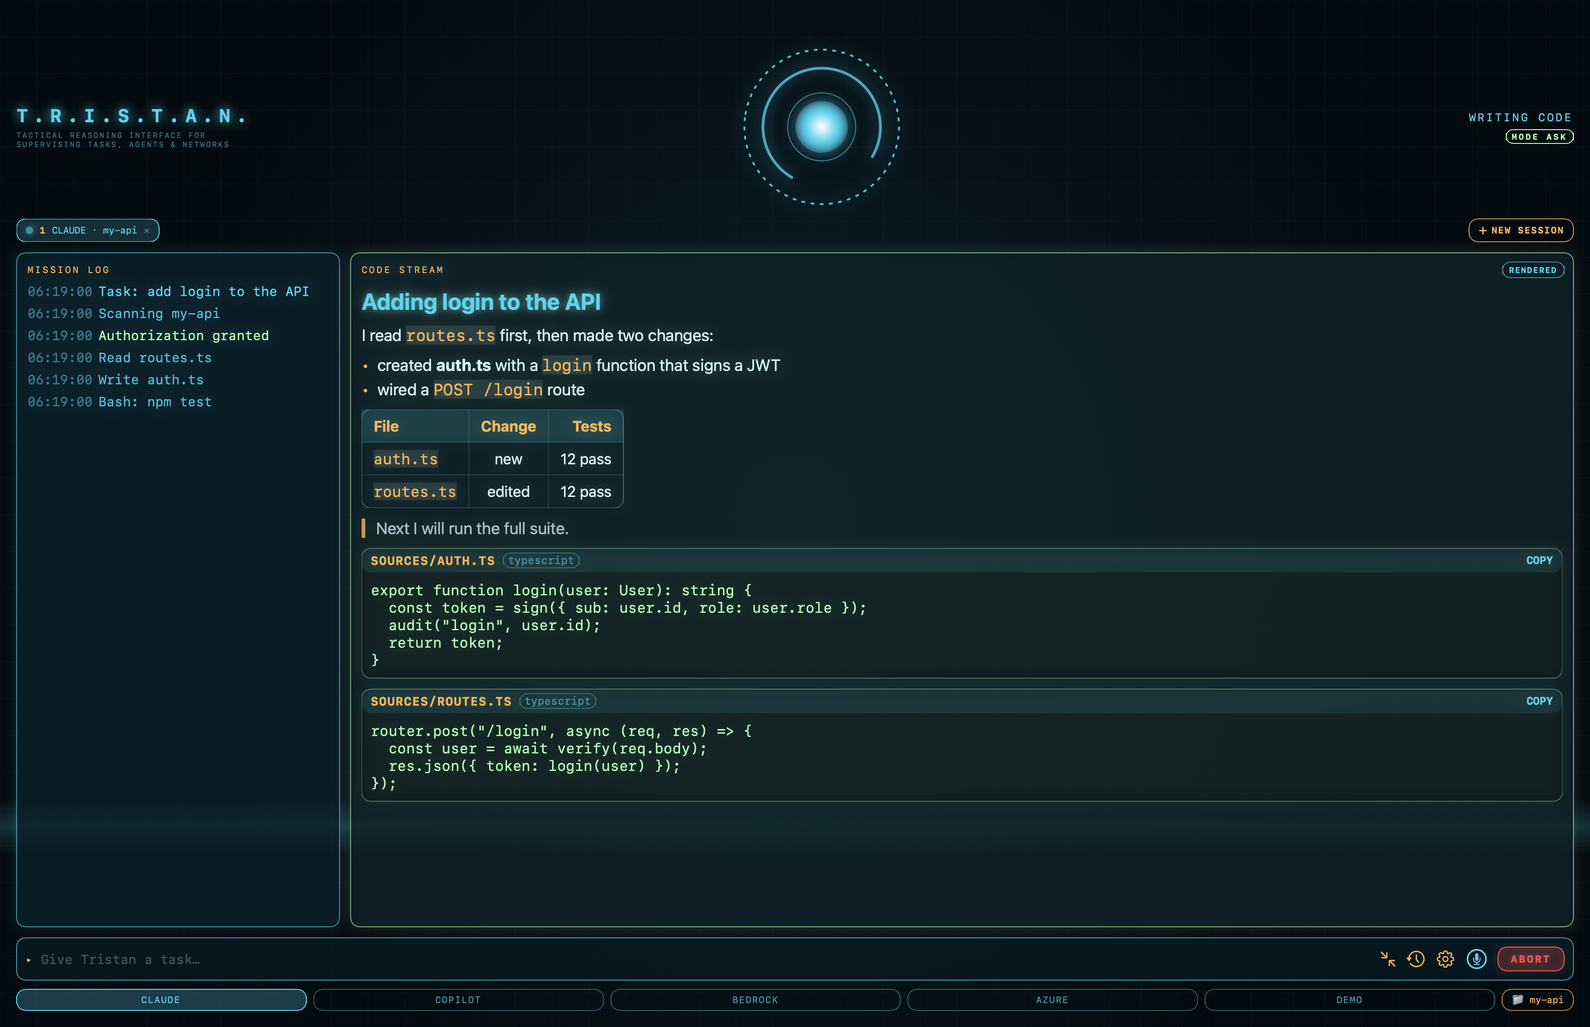
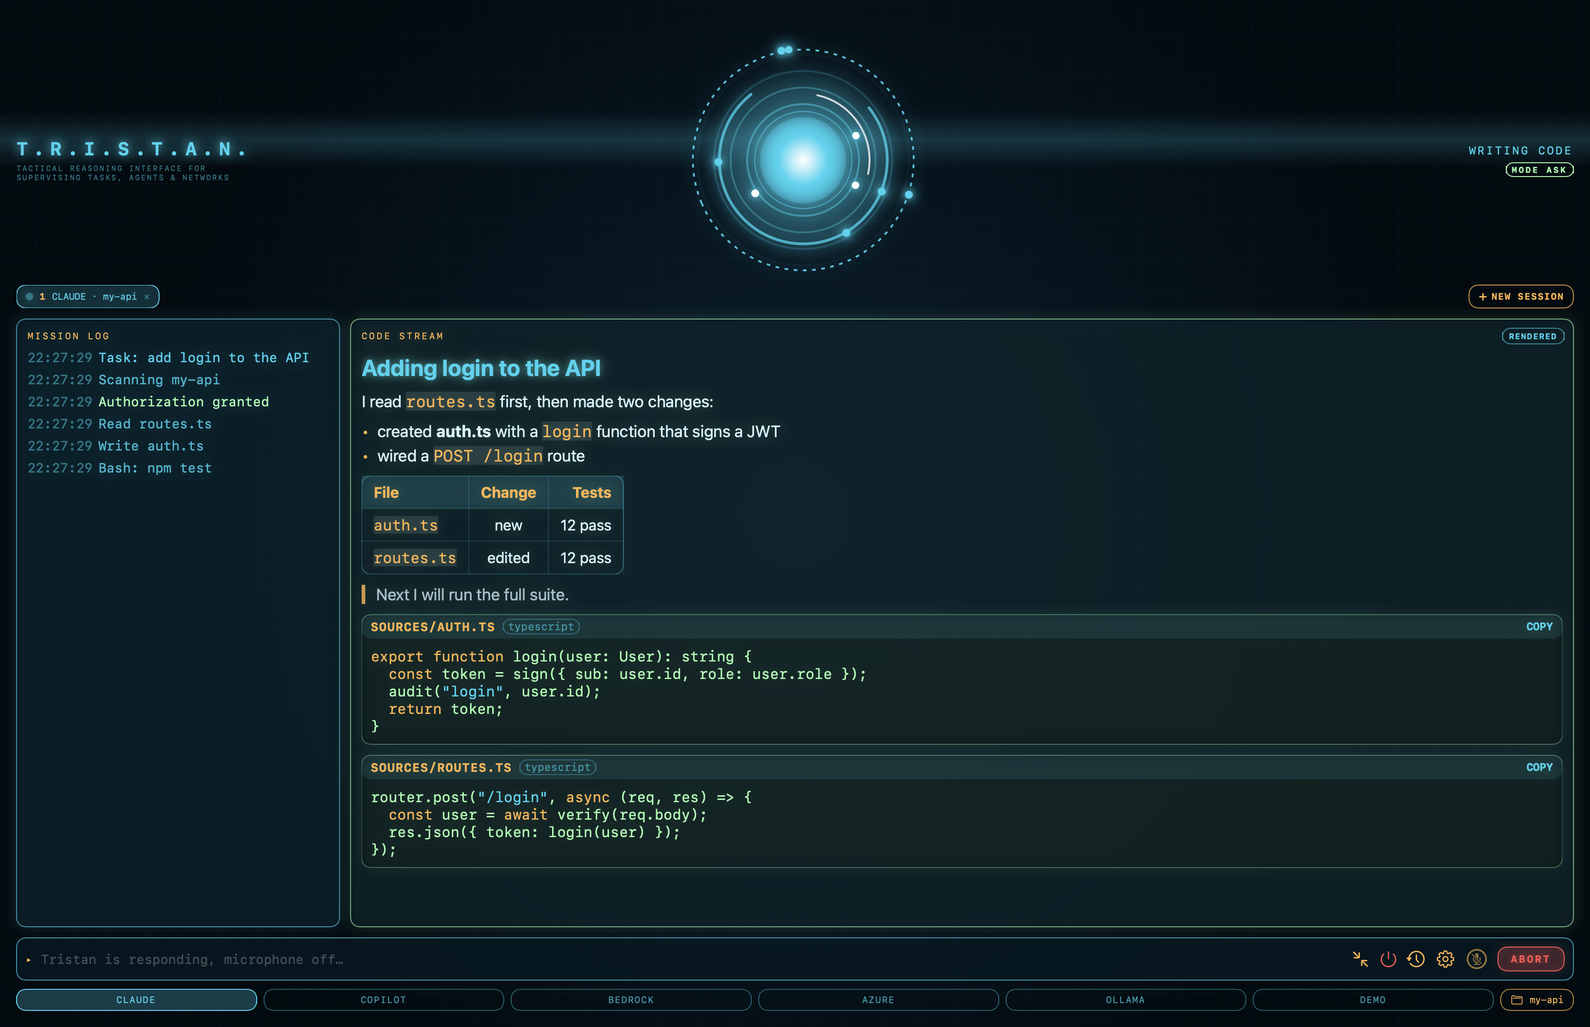
Code cards: syntax highlighting for Swift, TypeScript and JavaScript, Python, shell, JSON and YAML
A small dependency-free scanner shared by the Mac and iOS apps. Unfinished strings and
comments are coloured to the end, so streaming text never flickers or loses characters.

Closes #14

diff --git a/Sources/Tristan/Shared/SyntaxHighlighter.swift b/Sources/Tristan/Shared/SyntaxHighlighter.swift
@@ -1,0 +1,199 @@
+import Foundation
+
+// A small, dependency-free highlighter for the code cards. It is a hand-written scanner, not a parser: it only has to
+// colour what an agent writes, and it must cope with text that is still streaming in (an unfinished string or comment
+// is simply coloured to the end). The tokens always rebuild the original text exactly.
+
+enum SyntaxKind: Equatable {
+    case plain, keyword, string, comment, number, key
+}
+
+struct SyntaxToken: Equatable {
+    var kind: SyntaxKind
+    var text: String
+}
+
+enum SyntaxHighlighter {
+    private struct Rules {
+        var keywords: Set<String> = []
+        var lineComments: [String] = []
+        var blockComments = false
+        var quotes: [Character] = []
+        var multilineQuotes: [Character] = []   // a string that may run over several lines (template literals)
+        var tripleQuotes = false
+        var jsonKeys = false
+        var yaml = false
+    }
+
+    private static let swift = Rules(
+        keywords: ["import", "let", "var", "func", "class", "struct", "enum", "protocol", "extension", "if", "else", "guard", "switch", "case",
+                   "default", "for", "while", "repeat", "return", "break", "continue", "in", "is", "as", "try", "catch", "throw", "throws",
+                   "async", "await", "actor", "init", "self", "super", "nil", "true", "false", "static", "private", "public", "internal",
+                   "fileprivate", "open", "override", "final", "where", "some", "any", "typealias", "defer", "do"],
+        lineComments: ["//"], blockComments: true, quotes: ["\""], tripleQuotes: true)
+
+    private static let script = Rules(
+        keywords: ["const", "let", "var", "function", "return", "if", "else", "for", "while", "class", "extends", "new", "import", "export",
+                   "from", "default", "async", "await", "try", "catch", "throw", "typeof", "interface", "type", "enum", "implements",
+                   "public", "private", "readonly", "static", "switch", "case", "break", "continue", "this", "null", "undefined", "true",
+                   "false", "of", "in", "as"],
+        lineComments: ["//"], blockComments: true, quotes: ["\"", "'", "`"], multilineQuotes: ["`"])
+
+    private static let python = Rules(
+        keywords: ["def", "class", "return", "if", "elif", "else", "for", "while", "in", "not", "and", "or", "is", "import", "from", "as",
+                   "with", "try", "except", "finally", "raise", "pass", "break", "continue", "lambda", "yield", "None", "True", "False",
+                   "async", "await", "global", "nonlocal", "del", "assert"],
+        lineComments: ["#"], quotes: ["\"", "'"], tripleQuotes: true)
+
+    private static let shell = Rules(
+        keywords: ["if", "then", "else", "elif", "fi", "for", "while", "until", "do", "done", "case", "esac", "in", "function", "return",
+                   "exit", "export", "local"],
+        lineComments: ["#"], quotes: ["\"", "'"])
+
+    private static let json = Rules(keywords: ["true", "false", "null"], quotes: ["\""], jsonKeys: true)
+
+    private static let yaml = Rules(keywords: ["true", "false", "null", "yes", "no"], lineComments: ["#"], quotes: ["\"", "'"], yaml: true)
+
+    private static func rules(for language: String) -> Rules? {
+        switch language.lowercased() {
+        case "swift": return swift
+        case "typescript", "ts", "tsx", "javascript", "js", "jsx", "mjs": return script
+        case "python", "py": return python
+        case "shell", "sh", "bash", "zsh": return shell
+        case "json", "jsonc": return json
+        case "yaml", "yml": return yaml
+        default: return nil
+        }
+    }
+
+    static func tokenize(_ code: String, language: String) -> [SyntaxToken] {
+        guard !code.isEmpty else { return [] }
+        guard let rules = rules(for: language) else { return [SyntaxToken(kind: .plain, text: code)] }
+        var tokens: [SyntaxToken] = []
+        if rules.yaml {
+            for line in code.split(separator: "\n", omittingEmptySubsequences: false).enumerated() {
+                if line.offset > 0 { tokens.append(SyntaxToken(kind: .plain, text: "\n")) }
+                let text = Array(line.element)
+                let keyEnd = yamlKeyRange(text)
+                if let keyEnd {
+                    tokens.append(SyntaxToken(kind: .plain, text: String(text[..<keyEnd.lowerBound])))
+                    tokens.append(SyntaxToken(kind: .key, text: String(text[keyEnd])))
+                    scan(Array(text[keyEnd.upperBound...]), rules, into: &tokens)
+                } else {
+                    scan(text, rules, into: &tokens)
+                }
+            }
+        } else {
+            scan(Array(code), rules, into: &tokens)
+        }
+        return merged(tokens)
+    }
+
+    /// The range of a YAML key at the start of a line (after indentation and a list dash), if the line has one.
+    private static func yamlKeyRange(_ line: [Character]) -> Range<Int>? {
+        var start = 0
+        while start < line.count, line[start] == " " || line[start] == "\t" { start += 1 }
+        while start + 1 < line.count, line[start] == "-", line[start + 1] == " " {
+            start += 2
+            while start < line.count, line[start] == " " { start += 1 }
+        }
+        guard start < line.count, line[start] != "#" else { return nil }
+        var i = start
+        if line[i] == "\"" || line[i] == "'" {
+            let quote = line[i]
+            i += 1
+            while i < line.count, line[i] != quote { i += line[i] == "\\" ? 2 : 1 }
+            guard i < line.count else { return nil }
+            i += 1
+            guard i < line.count, line[i] == ":" else { return nil }
+            return start..<i
+        }
+        while i < line.count {
+            if line[i] == ":" , i + 1 == line.count || line[i + 1] == " " { return i > start ? start..<i : nil }
+            if line[i] == "#", i > start, line[i - 1] == " " { return nil }
+            i += 1
+        }
+        return nil
+    }
+
+    private static func scan(_ chars: [Character], _ rules: Rules, into tokens: inout [SyntaxToken]) {
+        var i = 0
+        func hasPrefix(_ prefix: String, at index: Int) -> Bool {
+            let p = Array(prefix)
+            guard index + p.count <= chars.count else { return false }
+            return Array(chars[index..<index + p.count]) == p
+        }
+        func isWordChar(_ c: Character) -> Bool { c.isLetter || c.isNumber || c == "_" }
+        func add(_ kind: SyntaxKind, _ from: Int, _ to: Int) { tokens.append(SyntaxToken(kind: kind, text: String(chars[from..<to]))) }
+
+        while i < chars.count {
+            let c = chars[i]
+            // Comments: a hash only counts at the start of a line or after a space, so `a#b` stays plain.
+            if rules.blockComments, hasPrefix("/*", at: i) {
+                var j = i + 2
+                while j < chars.count, !hasPrefix("*/", at: j) { j += 1 }
+                j = min(chars.count, j + 2)
+                add(.comment, i, j); i = j; continue
+            }
+            if let marker = rules.lineComments.first(where: { hasPrefix($0, at: i) }),
+               marker != "#" || i == 0 || chars[i - 1] == " " || chars[i - 1] == "\t" || chars[i - 1] == "\n" {
+                var j = i
+                while j < chars.count, chars[j] != "\n" { j += 1 }
+                add(.comment, i, j); i = j; continue
+            }
+            if rules.tripleQuotes, c == "\"" || c == "'", hasPrefix(String(repeating: c, count: 3), at: i) {
+                let closing = String(repeating: c, count: 3)
+                var j = i + 3
+                while j < chars.count, !hasPrefix(closing, at: j) { j += chars[j] == "\\" ? 2 : 1 }
+                j = min(chars.count, j + 3)
+                add(.string, i, j); i = j; continue
+            }
+            if rules.quotes.contains(c) {
+                let multiline = rules.multilineQuotes.contains(c)
+                var j = i + 1
+                var closed = false
+                while j < chars.count {
+                    if chars[j] == "\\" { j = min(chars.count, j + 2); continue }
+                    if chars[j] == c { j += 1; closed = true; break }
+                    if chars[j] == "\n", !multiline { break }
+                    j += 1
+                }
+                var kind = SyntaxKind.string
+                if rules.jsonKeys, closed {
+                    var k = j
+                    while k < chars.count, chars[k] == " " || chars[k] == "\t" { k += 1 }
+                    if k < chars.count, chars[k] == ":" { kind = .key }
+                }
+                add(kind, i, j); i = j; continue
+            }
+            if c.isNumber, i == 0 || !isWordChar(chars[i - 1]) {
+                var j = i + 1
+                if c == "0", j < chars.count, chars[j] == "x" || chars[j] == "X" {
+                    j += 1
+                    while j < chars.count, chars[j].isHexDigit { j += 1 }
+                } else {
+                    while j < chars.count, chars[j].isNumber || chars[j] == "_" || (chars[j] == "." && j + 1 < chars.count && chars[j + 1].isNumber) { j += 1 }
+                }
+                add(.number, i, j); i = j; continue
+            }
+            if c.isLetter || c == "_" {
+                var j = i + 1
+                while j < chars.count, isWordChar(chars[j]) { j += 1 }
+                add(rules.keywords.contains(String(chars[i..<j])) ? .keyword : .plain, i, j); i = j; continue
+            }
+            add(.plain, i, i + 1); i += 1
+        }
+    }
+
+    private static func merged(_ tokens: [SyntaxToken]) -> [SyntaxToken] {
+        var result: [SyntaxToken] = []
+        for token in tokens where !token.text.isEmpty {
+            if token.kind == .plain, let last = result.last, last.kind == .plain {
+                result[result.count - 1].text += token.text
+            } else {
+                result.append(token)
+            }
+        }
+        return result
+    }
+}

diff --git a/Tests/TristanTests/SyntaxHighlighterTests.swift b/Tests/TristanTests/SyntaxHighlighterTests.swift
@@ -1,0 +1,117 @@
+import XCTest
+@testable import Tristan
+
+final class SyntaxHighlighterTests: XCTestCase {
+    private func tokens(_ code: String, _ language: String) -> [SyntaxToken] { SyntaxHighlighter.tokenize(code, language: language) }
+    private func kinds(_ code: String, _ language: String, of kind: SyntaxKind) -> [String] {
+        tokens(code, language).filter { $0.kind == kind }.map(\.text)
+    }
+
+    func testTokensAlwaysRebuildTheOriginalText() {
+        let samples = [
+            "let x = \"hi\" // note\nfunc f() -> Int { 42 }",
+            "{\"a\": [1, 2.5, true, null], \"b\": \"c\"}",
+            "name: demo\n# comment\nitems:\n  - one: 1",
+            "echo \"$HOME\" # hi\nif [ -f a ]; then ls; fi",
+            "def f(x):\n    return x  # done",
+            "const s = `a ${b}`; /* c */ let n = 0x1F",
+            "",
+            "\n\n  \t",
+            "emoji 😀 \"naïve\" é",
+        ]
+        for language in ["swift", "typescript", "javascript", "python", "shell", "json", "yaml", "text", ""] {
+            for code in samples {
+                XCTAssertEqual(tokens(code, language).map(\.text).joined(), code, "\(language): \(code)")
+            }
+        }
+    }
+
+    func testSwiftKeywordsStringsCommentsAndNumbers() {
+        let code = "let total = 42 + 3.5 // sum\nvar name = \"Ada\"\nfunc go() {}"
+        XCTAssertEqual(kinds(code, "swift", of: .keyword), ["let", "var", "func"])
+        XCTAssertEqual(kinds(code, "swift", of: .number), ["42", "3.5"])
+        XCTAssertEqual(kinds(code, "swift", of: .string), ["\"Ada\""])
+        XCTAssertEqual(kinds(code, "swift", of: .comment), ["// sum"])
+    }
+
+    func testKeywordsInsideWordsAreNotKeywords() {
+        XCTAssertEqual(kinds("letter = iffy + classic", "swift", of: .keyword), [])
+        XCTAssertEqual(kinds("x1 = 2", "swift", of: .number), ["2"], "digits inside an identifier are not numbers")
+    }
+
+    func testKeywordsInsideStringsAndCommentsStayPlainText() {
+        XCTAssertEqual(kinds("\"let it be\" // func", "swift", of: .keyword), [])
+    }
+
+    func testUnfinishedStringAndCommentAreStillColoured() {
+        XCTAssertEqual(kinds("let s = \"half a str", "swift", of: .string), ["\"half a str"])
+        XCTAssertEqual(kinds("x /* still open\nlet", "swift", of: .comment), ["/* still open\nlet"])
+    }
+
+    func testAStringDoesNotRunPastItsLineWithEscapes() {
+        XCTAssertEqual(kinds("a = \"say \\\"hi\\\"\" + b", "swift", of: .string), ["\"say \\\"hi\\\"\""])
+        XCTAssertEqual(kinds("a = \"open\nlet b = 1", "swift", of: .string), ["\"open"], "a plain string ends at the line break")
+    }
+
+    func testTypeScriptAndJavaScriptShareRules() {
+        let code = "const n: number = 1; // one\nexport function f() { return `t` }"
+        for language in ["typescript", "ts", "tsx", "javascript", "js", "jsx"] {
+            XCTAssertEqual(kinds(code, language, of: .keyword), ["const", "export", "function", "return"], language)
+            XCTAssertEqual(kinds(code, language, of: .string), ["`t`"], language)
+            XCTAssertEqual(kinds(code, language, of: .comment), ["// one"], language)
+        }
+    }
+
+    func testPythonUsesHashCommentsAndTripleQuotes() {
+        let code = "def f(x):\n    \"\"\"doc\n    more\"\"\"\n    return x  # done"
+        XCTAssertEqual(kinds(code, "python", of: .keyword), ["def", "return"])
+        XCTAssertEqual(kinds(code, "py", of: .string), ["\"\"\"doc\n    more\"\"\""])
+        XCTAssertEqual(kinds(code, "python", of: .comment), ["# done"])
+    }
+
+    func testShellComments() {
+        let code = "#!/bin/bash\nif [ -f a ]; then echo \"ok\" # fine\nfi"
+        for language in ["shell", "sh", "bash", "zsh"] {
+            XCTAssertEqual(kinds(code, language, of: .keyword), ["if", "then", "fi"], language)
+            XCTAssertEqual(kinds(code, language, of: .comment), ["#!/bin/bash", "# fine"], language)
+            XCTAssertEqual(kinds(code, language, of: .string), ["\"ok\""], language)
+        }
+        XCTAssertEqual(kinds("echo a#b", "shell", of: .comment), [], "a hash inside a word is not a comment")
+    }
+
+    func testJSONKeysAreToldApartFromValues() {
+        let code = "{\"name\": \"Ada\", \"age\": 36, \"ok\": true, \"x\": null}"
+        XCTAssertEqual(kinds(code, "json", of: .key), ["\"name\"", "\"age\"", "\"ok\"", "\"x\""])
+        XCTAssertEqual(kinds(code, "json", of: .string), ["\"Ada\""])
+        XCTAssertEqual(kinds(code, "json", of: .number), ["36"])
+        XCTAssertEqual(kinds(code, "json", of: .keyword), ["true", "null"])
+    }
+
+    func testYAMLKeysCommentsAndValues() {
+        let code = "name: demo # trailing\nitems:\n  - count: 3\n  - \"quoted\": yes"
+        for language in ["yaml", "yml"] {
+            XCTAssertEqual(kinds(code, language, of: .key), ["name", "items", "count", "\"quoted\""], language)
+            XCTAssertEqual(kinds(code, language, of: .comment), ["# trailing"], language)
+            XCTAssertEqual(kinds(code, language, of: .number), ["3"], language)
+        }
+        XCTAssertEqual(kinds("url: http://a.b/c", "yaml", of: .key), ["url"], "a colon inside a value does not start another key")
+    }
+
+    func testLanguageNamesAreCaseInsensitiveAndUnknownOnesStayPlain() {
+        XCTAssertEqual(kinds("let a = 1", "Swift", of: .keyword), ["let"])
+        for language in ["", "text", "rust", "diff"] {
+            XCTAssertEqual(tokens("let a = \"b\" // c", language), [SyntaxToken(kind: .plain, text: "let a = \"b\" // c")], language)
+        }
+        XCTAssertEqual(tokens("", "swift"), [])
+    }
+
+    func testEveryPrefixOfStreamedTextTokenizesWithoutLosingText() {
+        let code = "func f() {\n  let s = \"a\\\"b\" /* c */ // d\n  return 0x1F\n}\n\"\"\"x"
+        for language in ["swift", "python", "json", "yaml", "shell"] {
+            for end in code.indices {
+                let prefix = String(code[...end])
+                XCTAssertEqual(tokens(prefix, language).map(\.text).joined(), prefix, "\(language) at \(prefix.count)")
+            }
+        }
+    }
+}

diff --git a/Sources/Tristan/Shared/Markdown.swift b/Sources/Tristan/Shared/Markdown.swift
@@ -404,7 +404,7 @@ struct CodeCard: View {
                 if isMarkdown && !showSource {
                     MarkdownView(text: content)
                 } else {
-                    Text(content.isEmpty ? " " : content)
+                    Text(highlighted)
                         .font(.system(size: 12 * scale, design: .monospaced)).foregroundStyle(Theme.green)
                         .frame(maxWidth: .infinity, alignment: .leading)
                         .textSelection(.enabled)
@@ -414,6 +414,26 @@ struct CodeCard: View {
         }
         .background(Theme.codeWash, in: RoundedRectangle(cornerRadius: Theme.corner))
         .overlay(RoundedRectangle(cornerRadius: Theme.corner).stroke(Theme.green.opacity(0.35), lineWidth: 1))
+    }
+
+    /// The code with its tokens coloured from the theme. Plain text keeps the card's own colour; an unfinished block
+    /// (still streaming) is coloured as far as it has got.
+    private var highlighted: AttributedString {
+        guard !content.isEmpty else { return AttributedString(" ") }
+        var result = AttributedString()
+        for token in SyntaxHighlighter.tokenize(content, language: language) {
+            var piece = AttributedString(token.text)
+            switch token.kind {
+            case .plain: break
+            case .keyword: piece.foregroundColor = Theme.amber
+            case .string: piece.foregroundColor = Theme.cyan
+            case .comment: piece.foregroundColor = Theme.green.opacity(0.5)
+            case .number: piece.foregroundColor = Theme.amber.opacity(0.75)
+            case .key: piece.foregroundColor = Theme.cyan
+            }
+            result.append(piece)
+        }
+        return result
     }
 
     private func copy() {

diff --git a/docs/index.html b/docs/index.html
@@ -414,7 +414,6 @@ scripts/setup-ollama.sh qwen2.5-coder   <span class="c"># or another model</span
     <p class="intro">Every item is a GitHub issue with a short brief, so anyone can pick one up. The first two are the easiest places to start.</p>
 
     <ul class="roadmap">
-      <li><a href="https://github.com/mariotristan/jarvis-tristan/issues/14">Syntax highlighting in code cards</a><small>Good first issue</small></li>
       <li><a href="https://github.com/mariotristan/jarvis-tristan/issues/6">Turn Copilot’s output into log steps</a><small>Good first issue</small></li>
       <li><a href="https://github.com/mariotristan/jarvis-tristan/issues/11">Control several sessions from your phone</a><small>iPhone and iPad</small></li>
       <li><a href="https://github.com/mariotristan/jarvis-tristan/issues/7">Signing and notarization</a><small>Removes the download warning</small></li>

diff --git a/README.md b/README.md
@@ -328,7 +328,7 @@ Sources/Tristan/              The Mac app (macOS only)
 ├── RemoteServer.swift, QRCode.swift   Mac side of the iPhone/iPad remote and its pairing code
 ├── Snapshot.swift, DemoAutopilot.swift   README screenshots and the recorded demo
 └── Shared/                   Compiled by the Mac and iOS apps: themes, the markdown parser and views, the remote protocol and client
-Tests/TristanTests/           124 tests for the Mac app (macOS only)
+Tests/TristanTests/           137 tests for the Mac app (macOS only)
 Tests/TristanCoreTests/       206 tests on the Mac, 230 on Windows (files whose names start with Windows run only there)
 Tests/TristanCLITests/        95 tests on the Mac, 109 on Windows
 ios/                          The iPhone and iPad app (XcodeGen project, standalone engine, 17 tests)
@@ -360,7 +360,7 @@ In `ASK` mode T.R.I.S.T.A.N. starts Claude Code with a permission-prompt tool th
 ### Running the tests
 
 ```bash
-DEVELOPER_DIR=/Applications/Xcode.app/Contents/Developer swift test   # 425 tests: TristanTests, TristanCoreTests, TristanCLITests
+DEVELOPER_DIR=/Applications/Xcode.app/Contents/Developer swift test   # 438 tests: TristanTests, TristanCoreTests, TristanCLITests
 ```
 
 On Windows: `swift test --filter TristanCoreTests` and `swift test --filter TristanCLITests` (the Mac app and its tests are only declared on macOS).
@@ -400,7 +400,7 @@ The Bedrock agent loop is tested end to end with a scripted fake model: approval
 - **Launch at login** uses the system login-item service, which may ask you to approve an ad-hoc signed app in System Settings.
 - **Several sessions:** two real **Claude Code** sessions ran at the same time, each with its own approval, in its own folder (see the headless check `Tristan --headless-sessions`). Two real **Copilot** sessions also ran together in `AUTO` mode, each creating its own file in its own folder (same driver, `... copilot auto`); in `ASK` mode Copilot's blanket-permission launch was only tested with a stand-in process, not live. Each Copilot run gets its own log directory so concurrent runs never share one. The iPhone and iPad remote controls only the Mac's active session, so approvals for a session in the background reach the phone only after you switch to it on the Mac.
 - **Full screen:** the window and Dock behaviour is verified by a real self-test (`Tristan --fullscreen-selftest`) and a unit test, and the layout by a screenshot, but I have not watched it on your display, and the notch inset is only known for the one notched screen it ran on.
-- **Markdown:** the renderer covers what agents produce (no images, HTML, footnotes or nested quotes, and no syntax highlighting). It is covered by parser tests, a fuzz test and an every-prefix streaming test.
+- **Markdown:** the renderer covers what agents produce (no images, HTML, footnotes or nested quotes); code cards are coloured for Swift, TypeScript and JavaScript, Python, shell, JSON and YAML, and other languages stay one colour. It is covered by parser tests, a fuzz test and an every-prefix streaming test.
 - **iOS standalone mode has never called a real Azure OpenAI or Bedrock endpoint** (Azure OpenAI works live from the Mac app, but the phone's own client is not yet tried): the model is scripted in the tests and in the simulator demo. The Files folder picker and Keychain-stored AWS keys are only tested through unit tests.
 - **The iOS app has only run in the simulator** (see [iPhone and iPad](#iphone-and-ipad)): no physical device, no real Wi-Fi, no camera, microphone or haptics. The secure link and the remote commands are tested end to end on loopback, and the remote design rules (no remote YOLO, folder allow-list, replay for late joiners, wrong secret refused) have automated tests.
 - **The app is not notarized** (see [Install](#install)); there is no auto-update.
@@ -439,7 +439,7 @@ Next (every item is a GitHub issue; start from the [backlog overview](https://gi
 - [ ] Live validation of Bedrock, Copilot's `ASK` mode, wake word, notifications and the iOS app on a real device (needs real credentials and a human in front of the hardware)
 - [ ] iOS: Bonjour discovery of the Mac, per-device pairing keys, Live Activities for approvals
 - [ ] Several sessions on the iPhone and iPad remote (it controls the Mac's active session for now)
-- [ ] Syntax highlighting in code cards
+- [x] Syntax highlighting in code cards ([#14](https://github.com/mariotristan/jarvis-tristan/issues/14)), a small built-in scanner for Swift, TypeScript and JavaScript, Python, shell, JSON and YAML
 - [ ] Per-action approvals for Copilot, if the CLI gains a permission prompt hook
 - [ ] Developer ID signing and notarization (needs a paid Apple Developer account), then a Homebrew cask and auto-update
 - [ ] Track title in the notch, and Apple Music support
